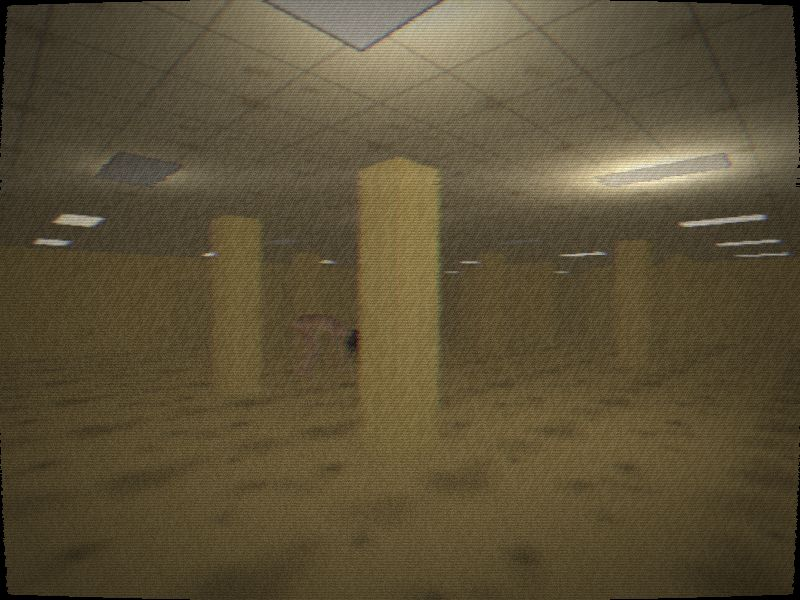
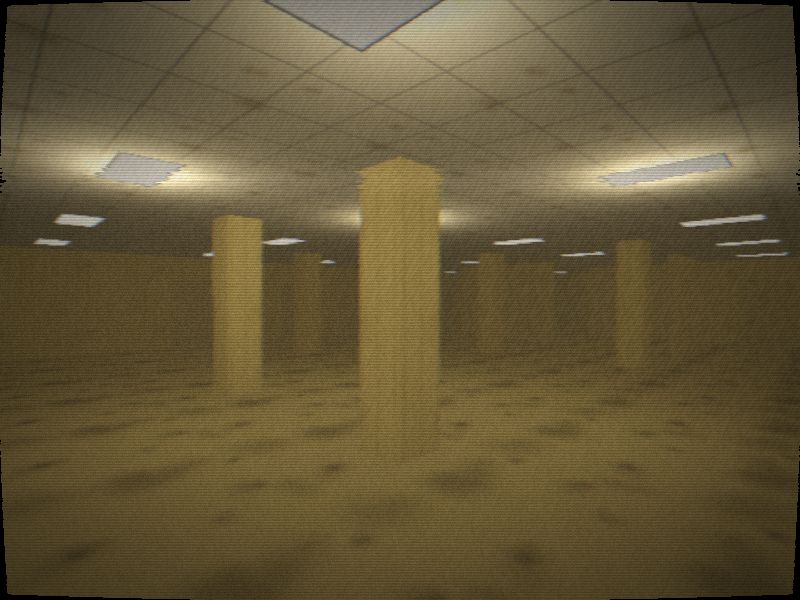
테이프 선택의 스포일러 제거, 메뉴 마우스 클릭 버그 수정
- 엔티티 정보는 처음엔 검열 막대로 가리고, 그 테이프에서 잡히거나 끝까지 녹화해야 공개
- 테이프 표지 사진을 엔티티 없이 다시 촬영
- 수정: '이어서 녹화'가 보일 때 마우스로 메뉴를 누르면 한 칸 위 항목이 실행되던 문제,
  '이어서 녹화'를 마우스로 누르면 반응이 없던 문제

diff --git a/src/menu.js b/src/menu.js
@@ -75,7 +75,14 @@ export function createMenu(opts) {
         const best = p.best[t.i]
           ? `최고 기록 ${formatTime(p.best[t.i])} · 클리어 ${p.clears[t.i]}회`
           : '아직 끝까지 녹화하지 못했다';
-        hover = `<p>${tp.desc}</p><p class="threat">⚠ ${tp.threat}</p><p class="best">${best}</p>`;
+        // 직접 겪기 전에는 엔티티 정보를 검게 지운다. 글자 수만 막대 길이로 남긴다
+        const threat = p.seen[t.i]
+          ? `<p class="threat">⚠ ${tp.threat}</p>`
+          : `<p class="threat redacted" title="기록 손상">⚠ ${tp.threat
+              .split(/\s+/)
+              .map((w) => `<span class="bar" style="width:${(w.length * 0.95).toFixed(2)}em"></span>`)
+              .join('')}</p>`;
+        hover = `<p>${tp.desc}</p>${threat}<p class="best">${best}</p>`;
       }
       btn.innerHTML =
         `<div class="sleeve"><div class="sleeve-top"><span>NOCLIP · T-120</span><span>TAPE ${t.i}</span></div>` +
@@ -228,15 +235,28 @@ export function createMenu(opts) {
     return current;
   }
 
+  function bindTitle(el) {
+    el.addEventListener('mouseenter', () => {
+      if (open && !busy && activeList() === 'title') setFocus('title', lists.title().indexOf(el));
+    });
+    el.addEventListener('click', (e) => {
+      if (e.detail === 0 || !open || busy || activeList() !== 'title') return;
+      setFocus('title', lists.title().indexOf(el), true);
+      activate('title');
+    });
+  }
+
+  // 순번은 이벤트가 일어난 순간에 다시 센다. '이어서 녹화'처럼 나중에 나타나는 항목이 있어
+  // 연결할 때의 순번을 고정해 두면 한 칸씩 밀린다
   function bindPointer(list) {
-    lists[list]().forEach((el, i) => {
+    lists[list]().forEach((el) => {
       el.addEventListener('mouseenter', () => {
-        if (open && !busy && activeList() === list) setFocus(list, i);
+        if (open && !busy && activeList() === list) setFocus(list, lists[list]().indexOf(el));
       });
       el.addEventListener('click', (e) => {
         if (e.detail === 0) return; // 키보드가 만든 클릭은 keydown에서 이미 처리했다
         if (!open || busy || activeList() !== list) return;
-        setFocus(list, i, true);
+        setFocus(list, lists[list]().indexOf(el), true);
         if (list === 'tabs') opts.sound('move');
         else activate(list);
       });
@@ -276,7 +296,7 @@ export function createMenu(opts) {
     e.preventDefault();
   });
 
-  bindPointer('title');
+  for (const el of document.querySelectorAll('[data-list="title"] > .mi')) bindTitle(el);
   bindPointer('tabs');
   bindPointer('yn');
 

diff --git a/src/progress.js b/src/progress.js
@@ -2,7 +2,8 @@
 const KEY = 'noclip.progress';
 
 export function loadProgress() {
-  const base = { unlocked: 0, best: {}, clears: {} };
+  // seen: 그 테이프의 엔티티를 직접 겪었는지 (잡히거나 끝까지 녹화하면 기록된다)
+  const base = { unlocked: 0, best: {}, clears: {}, seen: {} };
   try {
     return { ...base, ...JSON.parse(localStorage.getItem(KEY) || '{}') };
   } catch {
@@ -21,6 +22,14 @@ export function recordClear(p, index, seconds, total) {
   p.clears[index] = (p.clears[index] || 0) + 1;
   if (!p.best[index] || seconds < p.best[index]) p.best[index] = Math.round(seconds);
   p.unlocked = Math.max(p.unlocked, Math.min(index + 1, total - 1));
+  p.seen[index] = true;
+  save(p);
+}
+
+// 엔티티에게 잡혔을 때: 이제 그게 뭔지 안다
+export function markSeen(p, index) {
+  if (p.seen[index]) return;
+  p.seen[index] = true;
   save(p);
 }
 

diff --git a/src/main.js b/src/main.js
@@ -11,7 +11,7 @@ import { HUD } from './hud.js';
 import { makeTextures } from './textures.js';
 import { randomSeed } from './rng.js';
 import { createMenu } from './menu.js';
-import { loadProgress, recordClear } from './progress.js';
+import { loadProgress, recordClear, markSeen } from './progress.js';
 
 const params = new URLSearchParams(location.search);
 const TEST = params.has('test'); // 자동 테스트용: 포인터 락 없이 동작
@@ -325,6 +325,7 @@ function exitLevel() {
 }
 
 function caught() {
+  markSeen(progress, game.levelIndex);
   setState('caught');
   game.caughtT = 0;
   game.deaths++;

diff --git a/style.css b/style.css
@@ -1180,3 +1180,13 @@ body {
     bottom: 11vh;
   }
 }
+
+/* 직접 겪기 전에는 엔티티 정보가 검열된다 (The Classrooms 도감의 [Redacted]처럼) */
+.threat.redacted .bar {
+  display: inline-block;
+  height: 0.9em;
+  margin-right: 0.35em;
+  vertical-align: -0.1em;
+  background: rgba(255, 143, 134, 0.7);
+  clip-path: polygon(0 8%, 4% 0, 96% 6%, 100% 0, 99% 92%, 95% 100%, 3% 94%, 0 100%);
+}
